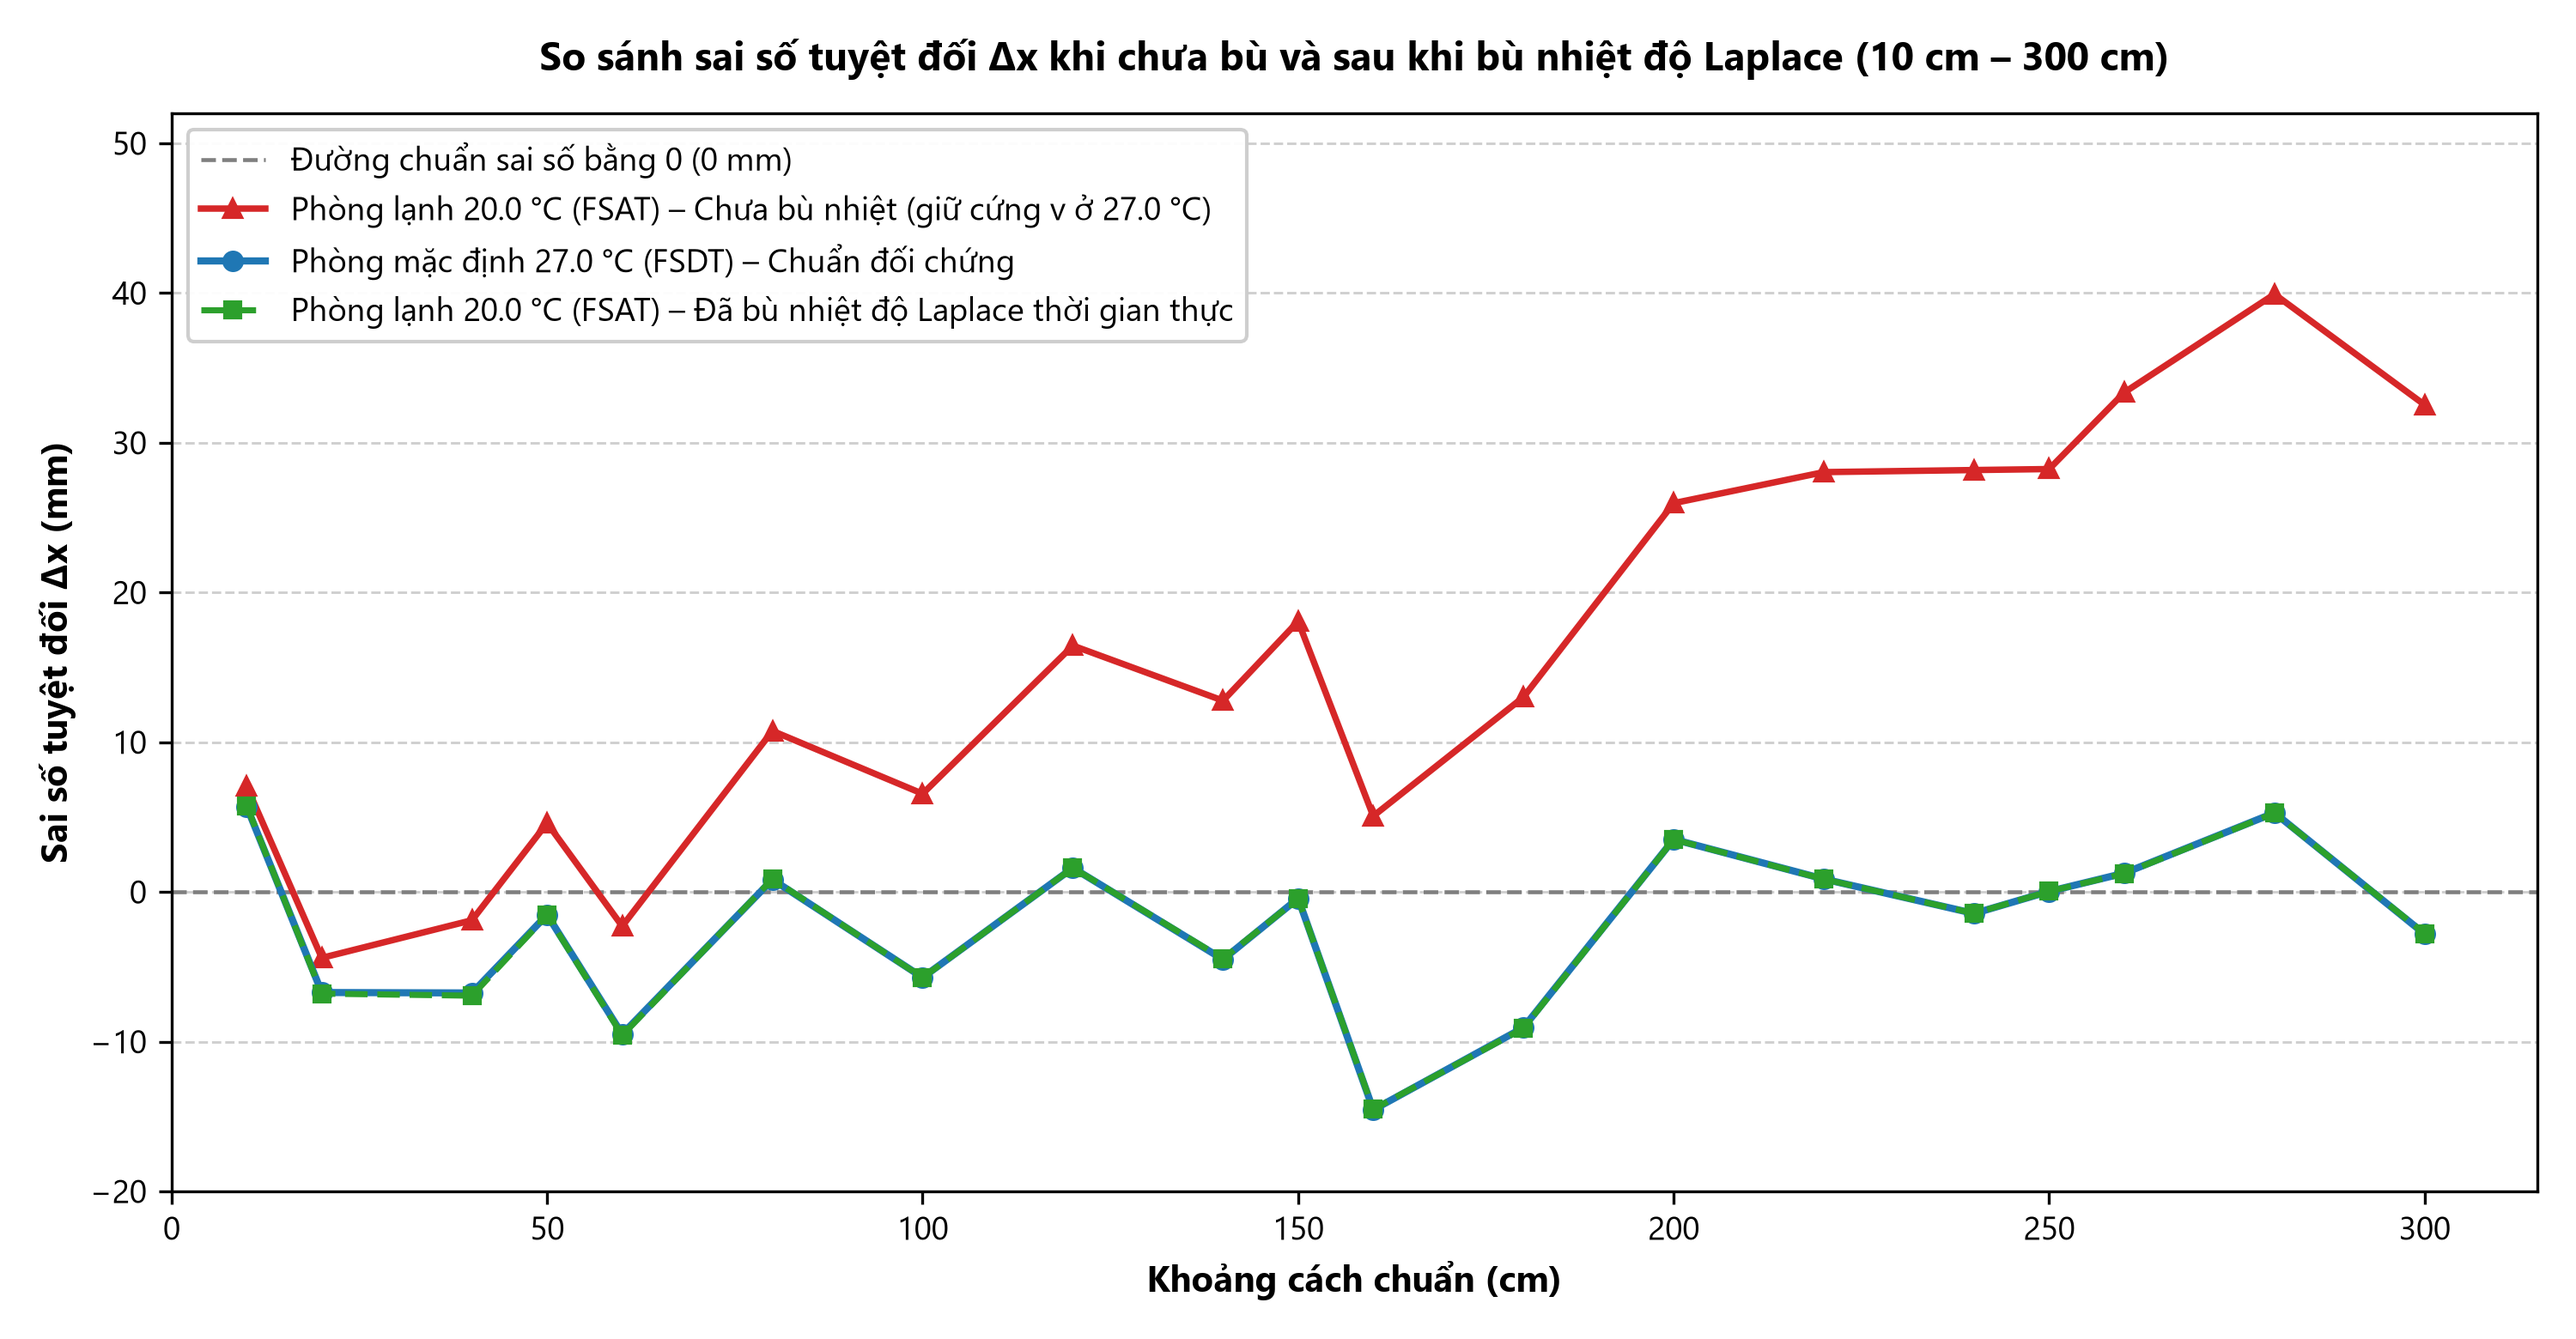
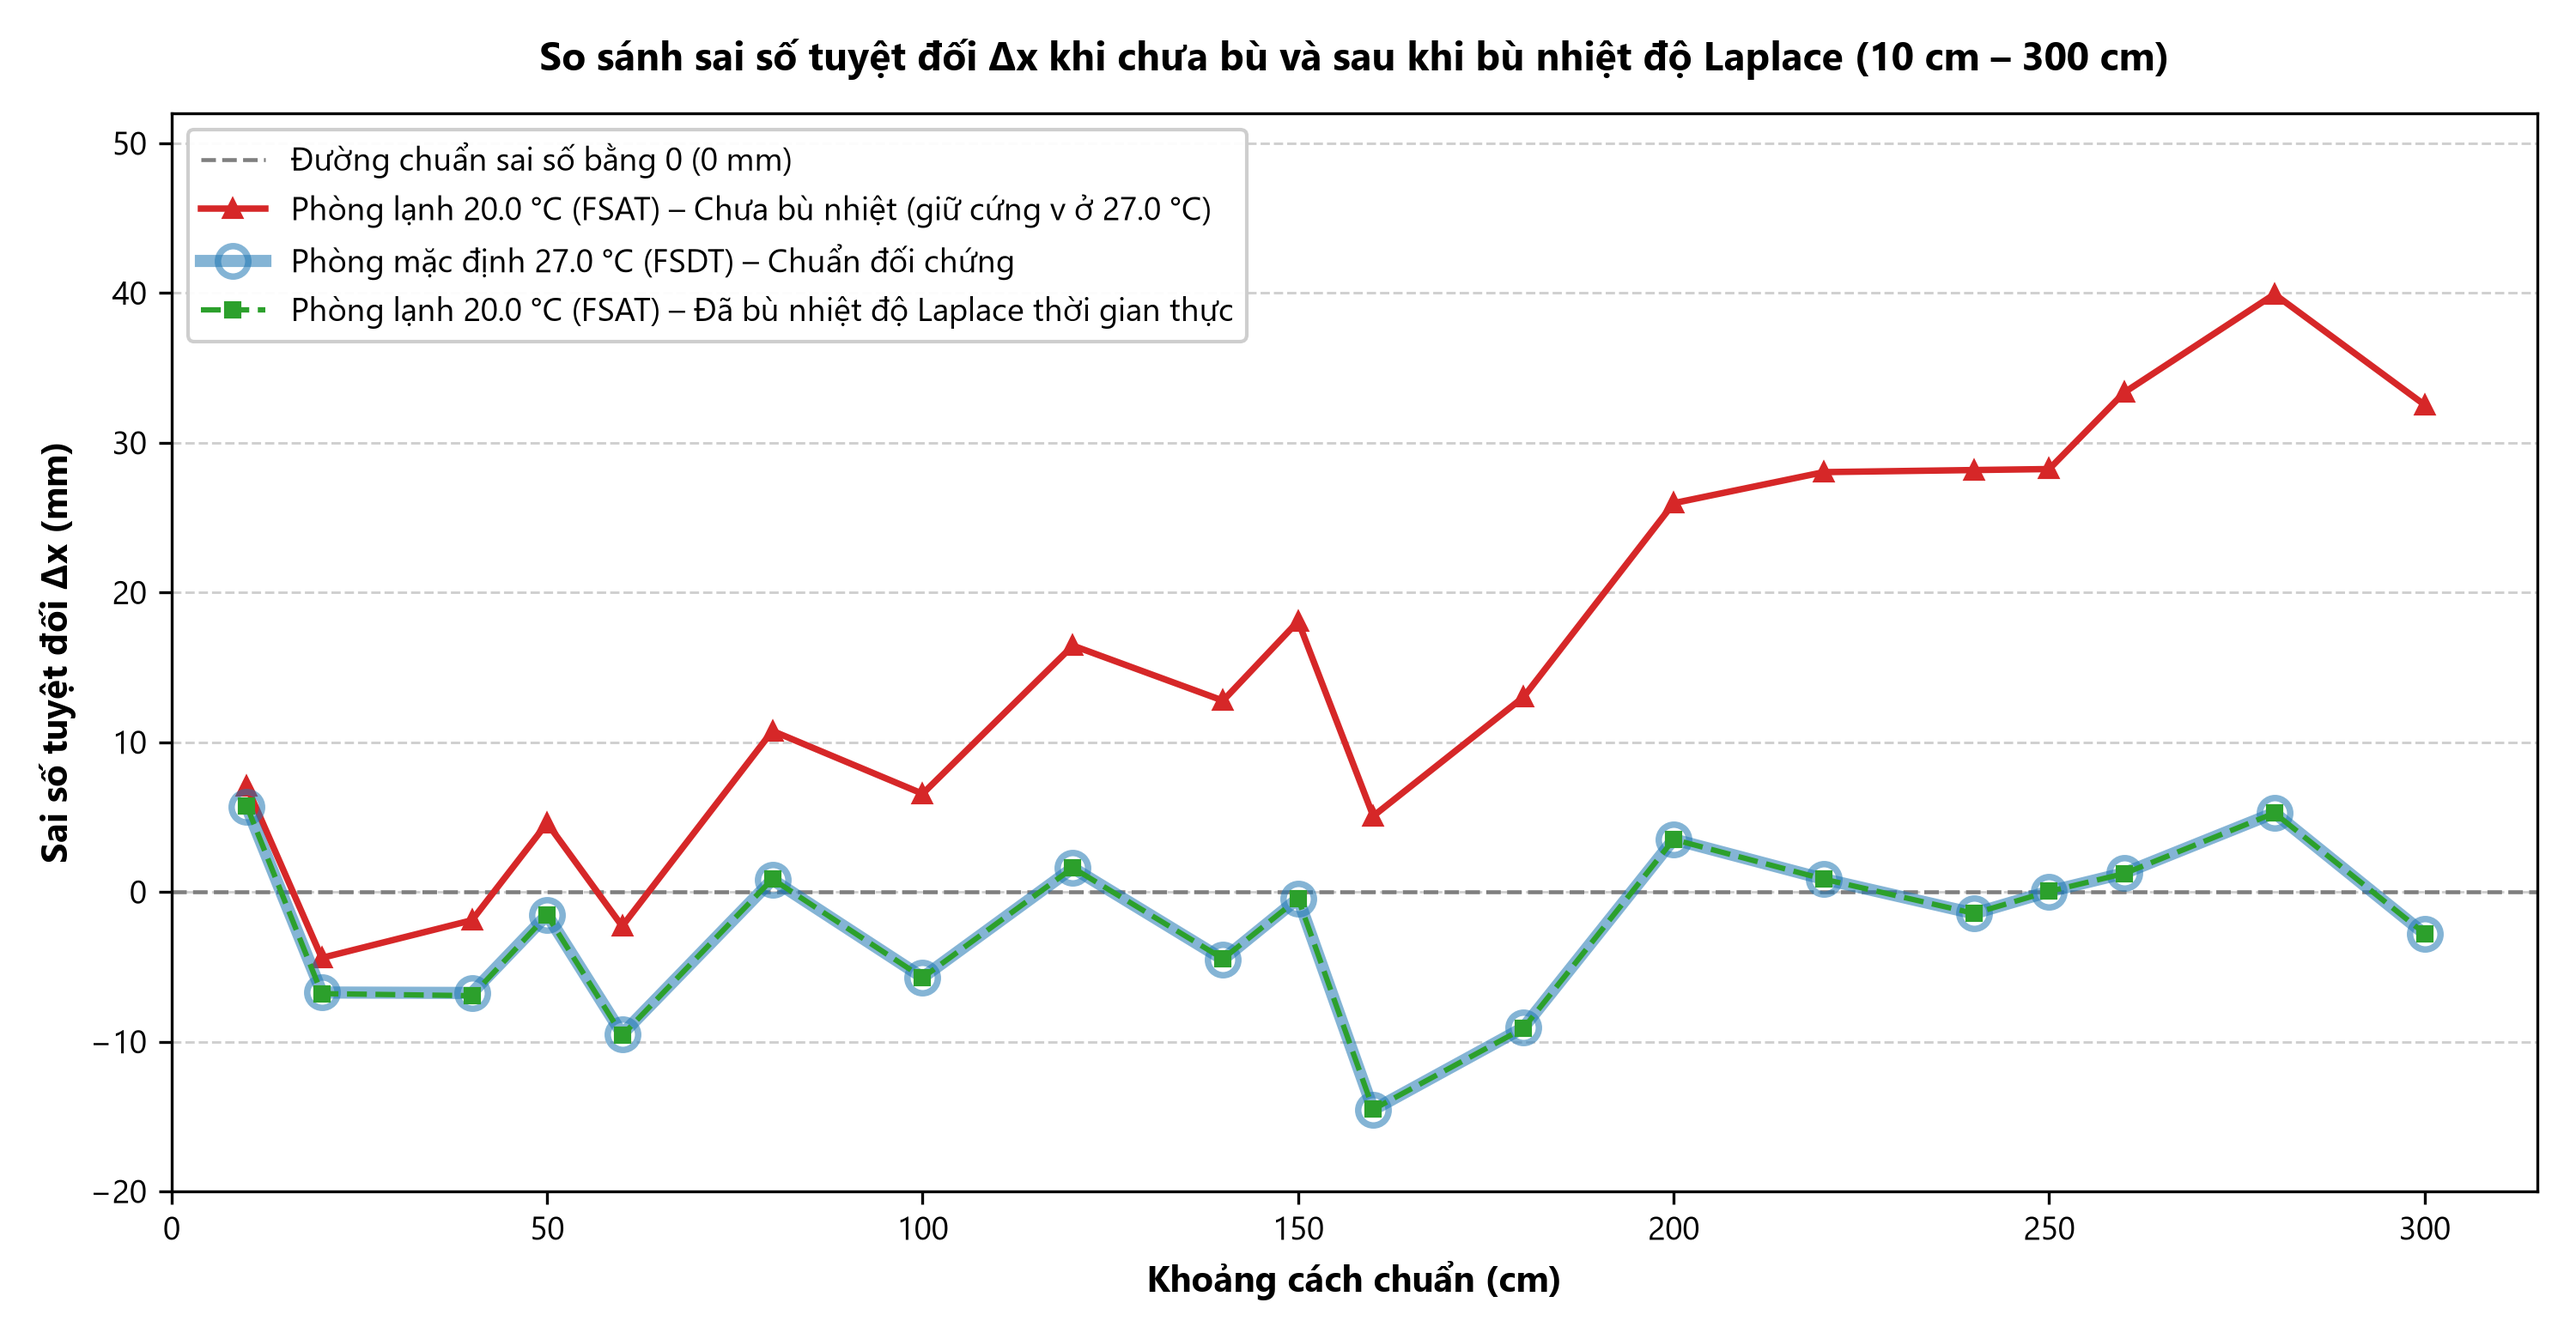
Tách rõ hiển thị đồng tâm vòng tròn xanh (FSDT) và tâm vuông xanh lá (FSAT) trên Hình 3.8

diff --git a/tao_do_thi_chuong_3.py b/tao_do_thi_chuong_3.py
@@ -411,9 +411,11 @@ ax.axhline(0, color='#7f7f7f', linestyle='--', linewidth=1.1,
            label='Đường chuẩn sai số bằng 0 (0 mm)')
 ax.plot(common_temp_x, err_uncomp_20, color='#d62728', linestyle='-', linewidth=1.8, marker='^', markersize=4.8,
         label='Phòng lạnh 20.0 °C (FSAT) – Chưa bù nhiệt (giữ cứng v ở 27.0 °C)')
-ax.plot(common_temp_x, err_comp_27, color='#1f77b4', linestyle='-', linewidth=2.0, marker='o', markersize=5.0,
+ax.plot(common_temp_x, err_comp_27, color='#1f77b4', linestyle='-', linewidth=3.4, alpha=0.55,
+        marker='o', markersize=8.5, markerfacecolor='none', markeredgecolor='#1f77b4', markeredgewidth=1.8,
         label='Phòng mặc định 27.0 °C (FSDT) – Chuẩn đối chứng')
-ax.plot(common_temp_x, err_comp_20, color='#2ca02c', linestyle='--', linewidth=1.7, marker='s', markersize=4.2,
+ax.plot(common_temp_x, err_comp_20, color='#2ca02c', linestyle='--', linewidth=1.5,
+        marker='s', markersize=3.8, markerfacecolor='#2ca02c', markeredgecolor='#2ca02c',
         label='Phòng lạnh 20.0 °C (FSAT) – Đã bù nhiệt độ Laplace thời gian thực')
 
 ax.set_title("So sánh sai số tuyệt đối Δx khi chưa bù và sau khi bù nhiệt độ Laplace (10 cm – 300 cm)", fontweight='bold', pad=12)
